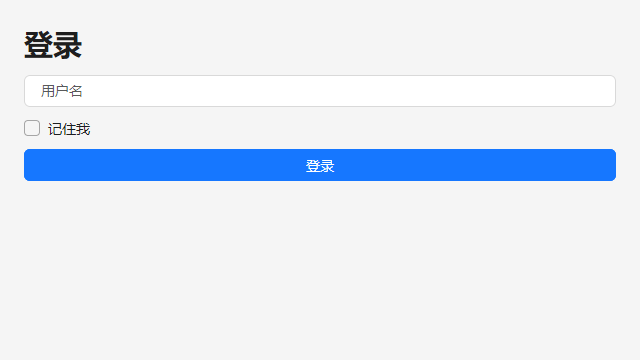
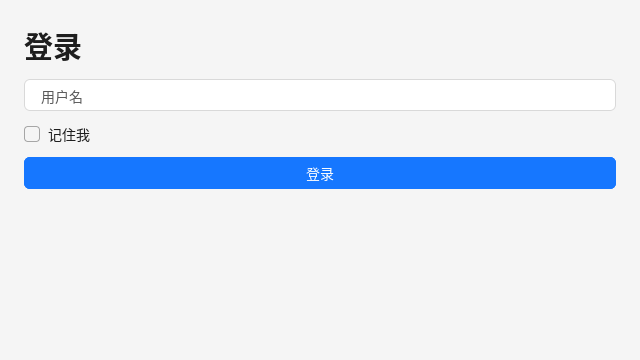
style(gallery): 第二轮 antd 视觉复审——打磨首页与示例页整体效果
对照 antd v5 Segmented/Statistic/Card/demo 区块规范复审 Gallery 外壳：
- Segmented 对齐 antd：无边框承托底 + 8px 圆角，项高 28px，选中项白底
  描边阴影 + 500 字重，未选中次要色
- 首页：主视觉拉开层级（副标题次要色、行动区独立呼吸空间）；特性卡
  2×2 等宽网格；统计卡加大内边距与数字间距；快速开始改为语法高亮
  只读代码视图，「Go」标签浅灰 pill
- 示例卡：预览区白底 + 底部分隔线（对齐 antd demo），序号加大加重，
  代码区头加大内边距，卡片间距统一 24px
- 侧栏：搜索框去边框（antd 文档站风格），分类标题加大
- Gallery 级基线按「预期改动删除重新生成」约定删除（原为 Windows 生成，
  Windows 下次运行自动重生成）；逐示例基线不受影响
- docs/09 补充第二轮打磨记录

Changed region(s): [[0.0312, 0.3056, 0.9688, 0.55], [0.0312, 0.0917, 0.125, 0.1833], [0.0625, 0.2139, 0.1562, 0.3056]]

diff --git a/gallery/app.go b/gallery/app.go
@@ -32,6 +32,37 @@ var brandColors = []struct {
 	{"洋红", "#eb2f96"},
 }
 
+// quickStartCode 首页「快速开始」展示的最小示例（与 README 快速开始同源）。
+const quickStartCode = `go get github.com/lishuangquan1987/mygo-antdesign@v0.5.0
+
+// 运行示例应用：go run ./gallery
+package main
+
+import (
+	"github.com/egoist/mygo"
+	"github.com/egoist/mygo/ui"
+
+	"github.com/lishuangquan1987/mygo-antdesign/theme"
+	widgets "github.com/lishuangquan1987/mygo-antdesign/widgets"
+)
+
+func main() {
+	remember := false
+	mygo.App.WhenReady(func() {
+		mygo.NewWindow(mygo.WindowOptions{Title: "登录", Width: 420, Height: 320,
+			Content: ui.View(func(c *ui.Context) {
+				theme.Apply(c, theme.Light())
+				widgets.Title(c, "登录", widgets.H2)
+				widgets.Checkbox(c, &remember, "记住我")
+				widgets.Button(c, "登录", widgets.Primary())
+			}),
+		})
+	})
+	if err := mygo.App.Run(); err != nil {
+		log.Fatal(err)
+	}
+}`
+
 // 对比模式。
 const (
 	compareNone = iota
@@ -165,29 +196,30 @@ type segItem struct {
 	onClick func()
 }
 
-// segmented 自绘分段控制器：浅灰底、选中项白底 + 轻阴影（antd Segmented）。
+// segmented 自绘分段控制器：浅灰承托底（无边框）、2px 内边距、
+// 28px 项高，选中项容器底 + 1px 描边 + 轻阴影（对齐 antd Segmented）。
 func segmented(c *ui.Context, items ...segItem) ui.Element {
 	t := c.Theme()
 	group := ui.Row(c).
 		Padding(t.Space(0.5)).
-		Radius(t.Radius).
+		Radius(t.Radius + t.Space(0.5)).
 		Background(t.Background).
-		Border(1, t.Border).
 		AlignItems(ui.Center)
 	group.Children(func() {
 		for _, it := range items {
 			it := it
 			btn := ui.ButtonBase(c).
-				Height(t.Space(6)).
-				Padding(0, t.Space(2)).
+				Height(t.Space(7)).
+				Padding(0, t.Space(3)).
 				Radius(t.Radius * 0.67).
 				Center()
 			if it.on {
 				btn.Background(t.Surface)
+				btn.Border(1, t.Border)
 				btn.Shadow(0, 1, 2, 0, t.Text.Alpha(0.08))
-				btn.Children(func() { ui.Text(c, it.label).TextColor(t.Text).FontSize(t.Rem(0.82)) })
+				btn.Children(func() { ui.Text(c, it.label).TextColor(t.Text).FontSize(t.Rem(0.86)).FontWeight(500) })
 			} else {
-				btn.Children(func() { ui.Text(c, it.label).TextColor(t.TextMuted).FontSize(t.Rem(0.82)) })
+				btn.Children(func() { ui.Text(c, it.label).TextColor(t.TextMuted).FontSize(t.Rem(0.86)) })
 			}
 			if btn.Clicked() && it.onClick != nil {
 				it.onClick()
@@ -229,14 +261,13 @@ func (g *Gallery) sidebar(c *ui.Context) {
 			ui.Text(c, "Ant Design · MyGo 原生 UI").TextColor(t.TextMuted).FontSize(t.Rem(0.72))
 		})
 
-		// 搜索框。
+		// 搜索框：浅灰底、无边框（对齐 antd 文档站侧栏搜索）。
 		search := ui.Row(c).FillWidth().
 			Height(t.Space(8)).
 			Margin(0, t.Space(4)).
 			Padding(0, t.Space(2)).
 			Radius(t.Radius).
 			Background(t.Background).
-			Border(1, t.Border).
 			AlignItems(ui.Center).
 			Gap(t.Space(1))
 		search.Children(func() {
@@ -291,8 +322,8 @@ func (g *Gallery) sidebar(c *ui.Context) {
 						Justify(ui.SpaceBetween).
 						Padding(t.Space(2), t.Space(2), t.Space(1), t.Space(2))
 					head.Children(func() {
-						ui.Text(c, string(cat)).TextColor(t.TextMuted).FontSize(t.Rem(0.7)).FontWeight(600)
-						ui.Textf(c, "%d 控件", len(group)).TextColor(t.TextMuted).FontSize(t.Rem(0.68))
+						ui.Text(c, string(cat)).TextColor(t.TextMuted).FontSize(t.Rem(0.75)).FontWeight(600)
+						ui.Textf(c, "%d 控件", len(group)).TextColor(t.TextMuted).FontSize(t.Rem(0.72))
 					})
 					for _, p := range group {
 						g.navItem(c, p.Name, p.Name == g.selected, len(p.Samples))
@@ -475,7 +506,7 @@ func (g *Gallery) content(c *ui.Context) {
 	t := c.Theme()
 
 	ui.Scroll(c).Fill().Children(func() {
-		col := ui.Column(c).FillWidth().Padding(t.Space(6)).Gap(t.Space(5))
+		col := ui.Column(c).FillWidth().Padding(t.Space(6)).Gap(t.Space(6))
 		col.Children(func() {
 			for i, s := range d.Samples {
 				g.sampleCard(c, i, s)
@@ -495,22 +526,23 @@ func (g *Gallery) homePage(c *ui.Context) {
 
 		// 主视觉。
 		col.Children(func() {
-			hero := ui.Column(c).FillWidth().Gap(t.Space(4))
+			hero := ui.Column(c).FillWidth().Gap(t.Space(2))
 			hero.Children(func() {
 				row := ui.Row(c).AlignItems(ui.Center).Gap(t.Space(2))
 				row.Children(func() {
 					ui.Text(c, "mygo").FontWeight(700).FontSize(t.Rem(2.86)).TextColor(t.Text)
 					ui.Text(c, "antdesign").FontWeight(700).FontSize(t.Rem(2.86)).TextColor(t.Accent)
 				})
-				ui.Text(c, "Ant Design 风格的 MyGo 原生控件库").FontSize(t.Rem(1.43)).TextColor(t.Text)
+				ui.Text(c, "Ant Design 风格的 MyGo 原生控件库").FontSize(t.Rem(1.29)).TextColor(t.TextMuted)
 				ui.Text(c, "为 MyGo 原生 UI 提供 antd v5 视觉与交互，补齐 antd 有而 MyGo 没有的控件；亮暗双主题、标准/紧凑双密度，全部控件配真实代码示例与截图基线。").
 					TextColor(t.TextMuted).FontSize(t.Rem(1.0))
-				actions := ui.Row(c).AlignItems(ui.Center).Gap(t.Space(3))
+				actions := ui.Row(c).AlignItems(ui.Center).Gap(t.Space(3)).Margin(t.Space(3), 0, 0, 0)
 				actions.Children(func() {
 					if widgets.Button(c, "浏览控件", widgets.Primary(), widgets.Size(widgets.Large)).Clicked() {
 						g.selected = "Button"
 					}
-					widgets.Hyperlink(c, "GitHub 仓库", "https://github.com/lishuangquan1987/mygo-antdesign")
+					widgets.Hyperlink(c, "GitHub 仓库", "https://github.com/lishuangquan1987/mygo-antdesign").
+						FontSize(t.Rem(1.0))
 				})
 			})
 		})
@@ -529,12 +561,12 @@ func (g *Gallery) homePage(c *ui.Context) {
 					{"截图基线", 324},
 				} {
 					card := ui.Column(c).Grow(1).
-						Padding(t.Space(6)).
-						Radius(t.Radius+t.Space(0.5)).
+						Padding(t.Space(6), t.Space(4)).
+						Radius(t.Radius+t.Space(1)).
 						Background(t.Surface).
 						Border(1, t.Border).
 						AlignItems(ui.Center).
-						Gap(t.Space(1))
+						Gap(t.Space(2))
 					card.Children(func() {
 						widgets.Statistic(c, st.title, st.value)
 					})
@@ -542,7 +574,7 @@ func (g *Gallery) homePage(c *ui.Context) {
 			})
 		})
 
-		// 特性卡片。
+		// 特性卡片：2×2 等宽网格。
 		col.Children(func() {
 			row := ui.Row(c).FillWidth().Gap(t.Space(4)).Wrap()
 			row.Children(func() {
@@ -555,9 +587,9 @@ func (g *Gallery) homePage(c *ui.Context) {
 					{"缺口补齐", "antd 有而 MyGo 没有的 35 个控件全部自建实现。"},
 					{"视觉回归", "3 张 Gallery + 324 张逐示例截图基线，CI 逐字节比对。"},
 				} {
-					card := ui.Column(c).Grow(1).Width(t.Space(60)).
+					card := ui.Column(c).Grow(1).Width(t.Space(96)).
 						Padding(t.Space(6)).
-						Radius(t.Radius+t.Space(0.5)).
+						Radius(t.Radius+t.Space(1)).
 						Background(t.Surface).
 						Border(1, t.Border).
 						Gap(t.Space(2))
@@ -569,10 +601,10 @@ func (g *Gallery) homePage(c *ui.Context) {
 			})
 		})
 
-		// 快速开始。
+		// 快速开始：语法高亮的只读代码视图。
 		col.Children(func() {
 			code := ui.Column(c).FillWidth().
-				Radius(t.Radius+t.Space(0.5)).
+				Radius(t.Radius+t.Space(1)).
 				Background(t.Surface).
 				Border(1, t.Border).
 				Shadow(0, 1, 2, 0, t.Text.Alpha(0.04))
@@ -584,12 +616,27 @@ func (g *Gallery) homePage(c *ui.Context) {
 					Border(1, t.Border).BorderWidth(0, 0, 1, 0)
 				head.Children(func() {
 					ui.Text(c, "快速开始").FontSize(t.Rem(1.14)).FontWeight(600).TextColor(t.Text)
-					ui.Text(c, "Go").TextColor(t.TextMuted).FontSize(t.Rem(0.7)).FontWeight(600)
+					ui.Text(c, "Go").TextColor(t.TextMuted).FontSize(t.Rem(0.75)).FontWeight(600).
+						Padding(t.Space(0.5), t.Space(2)).
+						Radius(t.Space(2)).
+						Background(t.Background)
 				})
-				ui.Text(c, "go get github.com/lishuangquan1987/mygo-antdesign@v0.5.0\n\n// 运行示例应用\n// go run ./gallery\n\npackage main\n\nimport (\n\t\"github.com/egoist/mygo/ui\"\n\n\t\"github.com/lishuangquan1987/mygo-antdesign/theme\"\n\twidgets \"github.com/lishuangquan1987/mygo-antdesign/widgets\"\n)\n\nfunc main() {} // 详见 README 快速开始").
-					TextColor(t.TextMuted).
-					FontSize(t.Rem(0.82)).
-					Padding(t.Space(4), t.Space(6))
+				body := ui.Scroll(c).FillWidth().Background(t.Background)
+				body.Children(func() {
+					st := ui.Local(code, "gallery.quickstart", func() editor.State {
+						return editor.State{
+							Buffer:       editor.NewBuffer(quickStartCode),
+							ReadOnly:     true,
+							NoActiveLine: true,
+						}
+					})
+					lines := strings.Count(quickStartCode, "\n") + 1
+					h := t.Space(2.2)*float32(lines) + t.Space(2)
+					if h > t.Space(36) {
+						h = t.Space(36)
+					}
+					widgets.CodeEditor(c, st).FillWidth().Height(h)
+				})
 			})
 		})
 	})
@@ -615,10 +662,10 @@ func (g *Gallery) sampleCard(c *ui.Context, index int, s samples.Sample) {
 			Gap(t.Space(4)).
 			Border(1, t.Border).BorderWidth(0, 0, 1, 0)
 		head.Children(func() {
-			left := ui.Row(c).AlignItems(ui.Center).Gap(t.Space(2)).Grow(1)
+			left := ui.Row(c).AlignItems(ui.Center).Gap(t.Space(3)).Grow(1)
 			left.Children(func() {
-				ui.Textf(c, "%02d", index+1).TextColor(t.TextMuted).FontSize(t.Rem(0.72))
-				title := ui.Column(c).Gap(t.Space(0.25))
+				ui.Textf(c, "%02d", index+1).TextColor(t.TextMuted).FontSize(t.Rem(0.86)).FontWeight(600)
+				title := ui.Column(c).Gap(t.Space(0.5))
 				title.Children(func() {
 					ui.Text(c, s.Title).FontSize(t.Rem(1.14)).FontWeight(600).TextColor(t.Text)
 					ui.Text(c, s.Description).TextColor(t.TextMuted).FontSize(t.Rem(0.84))
@@ -633,10 +680,12 @@ func (g *Gallery) sampleCard(c *ui.Context, index int, s samples.Sample) {
 			})
 		})
 
-		// 预览区：浅灰底承托，四周 24px 留白（对齐 antd demo 区块）。
+		// 预览区：白底承托（对齐 antd demo 区块），四周 24px 留白，
+		// 底部 1px 分隔线与代码区分界。
 		preview := ui.Column(c).FillWidth().
 			Padding(t.Space(6)).
-			Background(t.Background)
+			Background(t.Surface).
+			Border(1, t.Border).BorderWidth(0, 0, 1, 0)
 		preview.Children(func() {
 			switch g.compare {
 			case compareTheme:
@@ -656,16 +705,19 @@ func (g *Gallery) sampleCard(c *ui.Context, index int, s samples.Sample) {
 			}
 		})
 
-		// 代码区：可展开/收起。
+		// 代码区：可展开/收起，浅灰承托（antd 展开代码区）。
 		code := ui.Column(c).FillWidth().
 			Border(1, t.Border).BorderWidth(1, 0, 0, 0)
 		code.Children(func() {
 			codeHead := ui.Row(c).FillWidth().
-				Padding(t.Space(1), t.Space(4)).
+				Padding(t.Space(2), t.Space(6)).
 				Justify(ui.SpaceBetween).
 				AlignItems(ui.Center)
 			codeHead.Children(func() {
-				ui.Text(c, "Go").TextColor(t.TextMuted).FontSize(t.Rem(0.7)).FontWeight(600)
+				ui.Text(c, "Go").TextColor(t.TextMuted).FontSize(t.Rem(0.75)).FontWeight(600).
+					Padding(t.Space(0.5), t.Space(2)).
+					Radius(t.Space(2)).
+					Background(t.Background)
 				toggle := widgets.Button(c, map[bool]string{true: "收起代码", false: "展开代码"}[*expanded],
 					widgets.Size(widgets.Small), widgets.Text())
 				if toggle.Clicked() {
@@ -705,7 +757,7 @@ func (g *Gallery) comparePane(c *ui.Context, label string, dark bool, density th
 	t := c.Theme()
 	pane := ui.Column(c).Grow(1).Gap(t.Space(1))
 	pane.Children(func() {
-		ui.Text(c, label).TextColor(t.TextMuted).FontSize(t.Rem(0.72))
+		ui.Text(c, label).TextColor(t.TextMuted).FontSize(t.Rem(0.8)).FontWeight(500)
 		theme.Sub(c, g.tokenOf(dark, density)).
 			FillWidth().
 			Padding(t.Space(4)).

diff --git a/docs/09-antd-parity.md b/docs/09-antd-parity.md
@@ -67,6 +67,28 @@
 | 空状态 | 一行文本 | `ant.Empty` + 引导文案（搜索无结果时） |
 | 截图 | 960×640 旧版 | `docs/images/gallery.png`（1280×800 亮色）、`gallery-dark.png`（暗色）、`quickstart.png`（最小示例） |
 
+## 3.1 第二轮 Gallery 打磨（antd 视觉复审）
+
+对照 antd v5 Segmented / Statistic / Card / 文档站 demo 区块规范复审 Gallery 外壳：
+
+| 区域 | 打磨前 | 打磨后 |
+| --- | --- | --- |
+| Segmented | 容器带 1px 边框、项高 24px、选中项无边框、字号 11.5px | 容器无边框 + 8px 圆角（antd 无描边承托底），项高 28px、水平内边距 12px，选中项容器底 + 1px 描边 + 阴影 + 500 字重，未选中项用次要文字色 |
+| 首页主视觉 | 主标题/副标题/描述统一 16px 间距，副标题用主文字色，GitHub 入口为裸链接 | 标题区 8px 紧凑节奏、描述上方 8px，行动区上移 24px 独立呼吸空间；副标题改次要文字色 18px |
+| 统计卡 | 内边距 24/16、数字与标题间距 4px、圆角 8px | 纵向内边距 24px、间距 8px、圆角 10px（antd borderRadiusLG） |
+| 特性卡 | 480px 基准宽 → 1280 窗口下 3+1 折行不齐 | 384px 基准宽 → 2×2 等宽网格，窄窗口逐级折行 |
+| 快速开始 | 纯文本 muted 色代码、无行号无高亮 | 只读 CodeEditor（语法高亮 + 行号），「Go」标签改浅灰 pill，代码区浅灰承托 |
+| 示例卡预览区 | 灰底（与页面同色，卡片内无层次） | 容器白底 + 底部 1px 分隔（对齐 antd demo 白底预览），卡片间距始终 24px |
+| 示例卡序号 | 10px 次要灰 | 12px/600 次要色，标题区左间距 12px |
+| 代码区头 | 4px/16px 内边距、「Go」裸文字 | 8px/24px 内边距、「Go」浅灰 pill；代码区浅灰承托 |
+| 侧栏搜索框 | 灰底 + 1px 边框双重描边 | 仅灰底无边框（对齐 antd 文档站侧栏搜索） |
+| 侧栏分类标题 | 9.5px | 10.5px/600，计数 10px |
+
+控件本体未发现新的规范违背：颜色/圆角/高度/字号/焦点环仍由 Token 驱动
+（§1 基准），`go run ./internal/check` 样式铁律通过；本轮改动仅触及
+Gallery 外壳（`gallery/app.go`），逐示例基线不受影响，Gallery 级基线与
+README 截图已重新生成。
+
 ## 4. 仍存在的差异（有意保留 / 后续）
 
 | 项 | 说明 |
